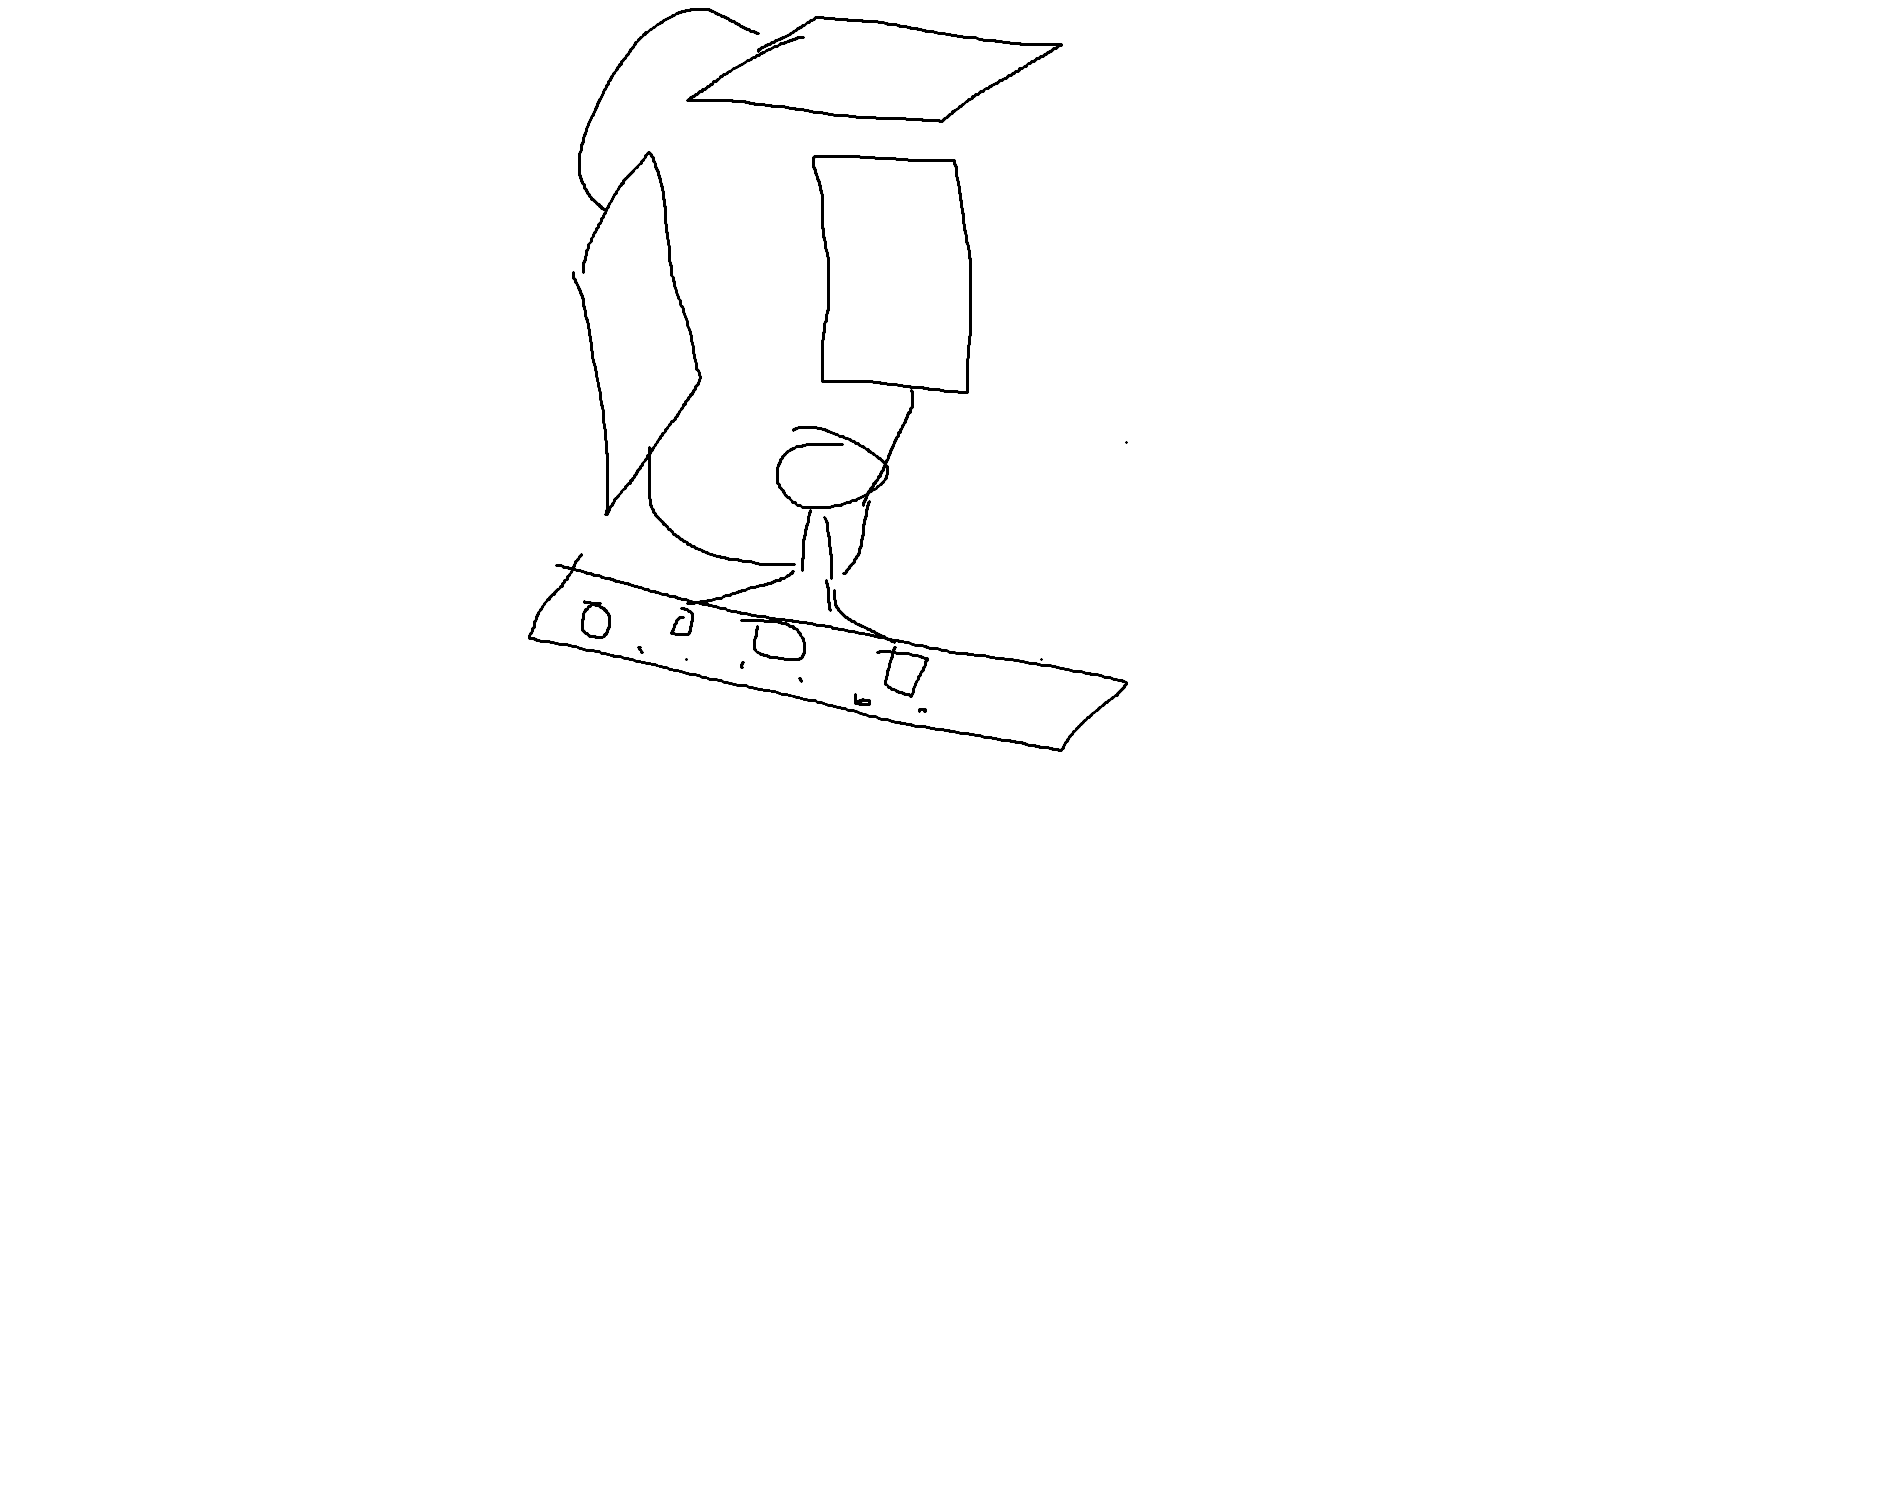
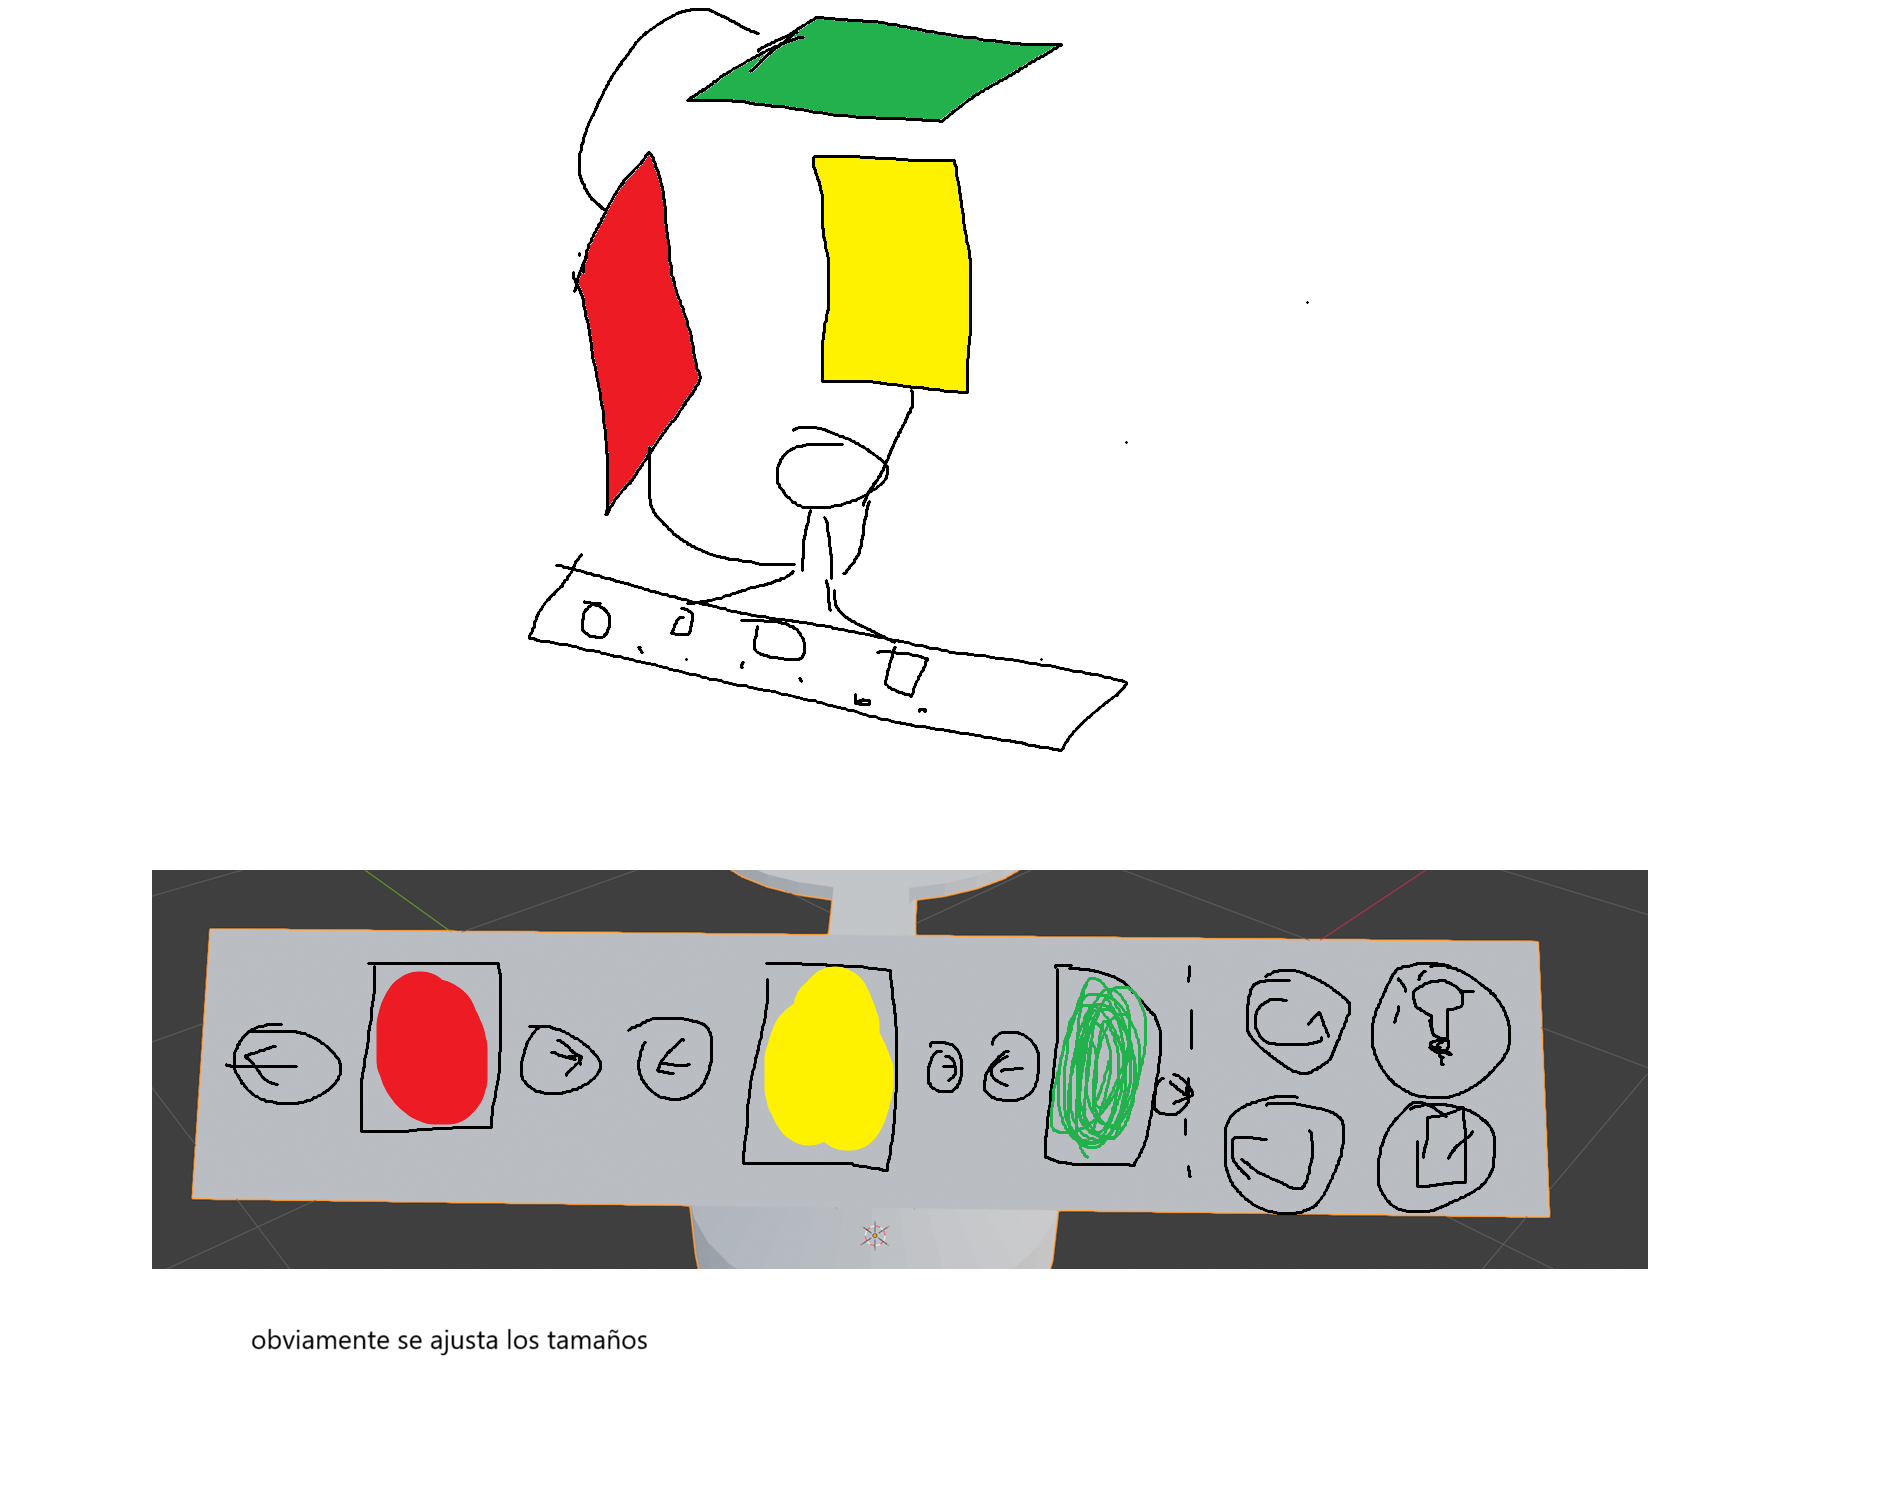
mejoras proyector

diff --git a/diario.md b/diario.md
@@ -265,3 +265,9 @@ Se ha creado una escena nueva para probar de forma aislada estos cambios, aunque
 ## 30/05
 Se ha mejorado las luces del proyector, ahora usa luces "spot" focales.
 Las luces ambientales de la escena interfieren en la fuerza de las sombras, investigar.
+
+## 1/06
+Mejora en el modelado del proyector
+Se tiene que tener en cuenta la altura de la persona, si es muy alto no se alinea bien la altura para ver las 3 vistas
+
+Añadir muros de respawn (death-barrier) en todas las escenas